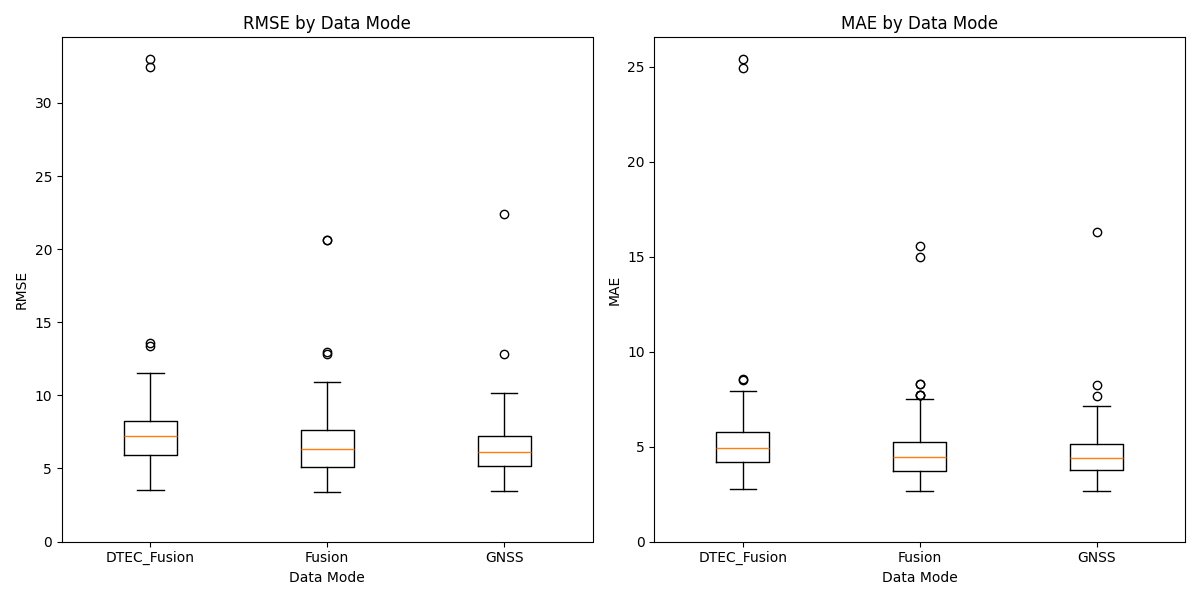
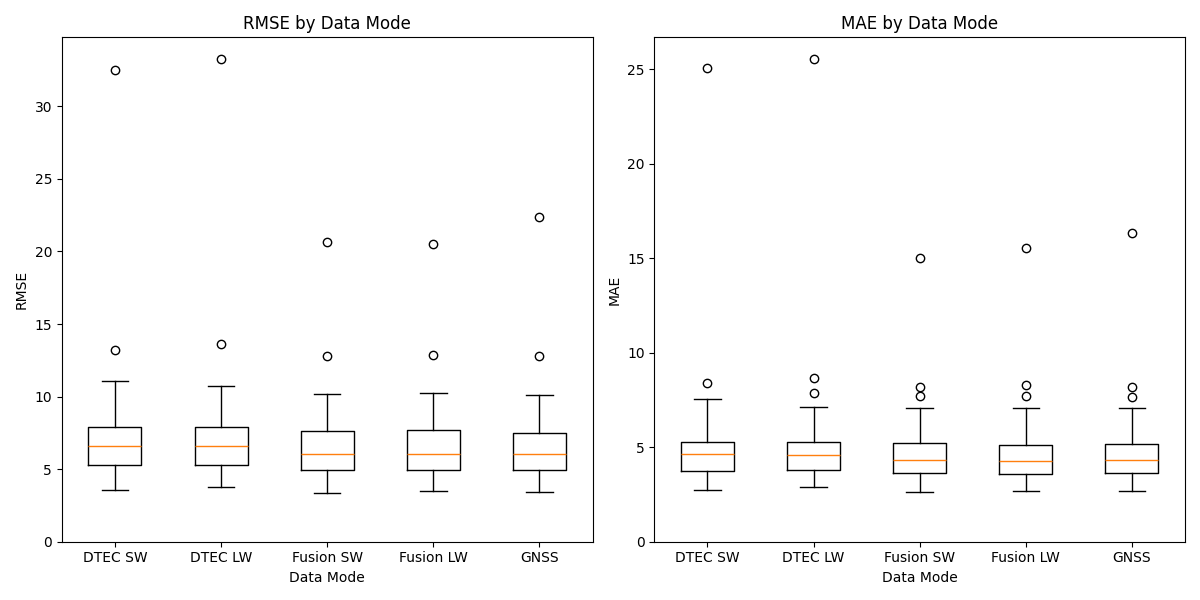
evaluated longterm (2023)

diff --git a/scripts/eval_SA_results.py b/scripts/eval_SA_results.py
@@ -38,75 +38,119 @@ def read_experiment(experiment_folder, experiment_name):
     return df_row
 
 def evaluate(df):
+    print("Number of experiments processed in total: ", len(df))
+    # Define your grouping columns
+    group_columns = ['data_mode', 'training_vlbi_loss_weight', 'training_vlbi_sampling_weight']
+
+    # Expected unique combinations for the groups
+    expected_combinations = set([
+        ('GNSS', 1, 1),
+        ('Fusion', 1000, 1),
+        ('Fusion', 1, 1000),
+        ('DTEC_Fusion', 100, 1),
+        ('DTEC_Fusion', 1, 100)
+    ])
+
+    group_name_mapping = {
+        ('GNSS', 1, 1): 'GNSS',
+        ('Fusion', 1000, 1): 'Fusion LW',
+        ('Fusion', 1, 1000): 'Fusion SW',
+        ('DTEC_Fusion', 100, 1): 'DTEC LW',
+        ('DTEC_Fusion', 1, 100): 'DTEC SW'
+    }
+
+    # Group by 'doy' and check if all expected combinations are present
+    valid_doys = df.groupby('doy').filter(
+        lambda g: set(map(tuple, g[group_columns].values)) == expected_combinations
+    )['doy'].unique()
+
+    # Filter original DataFrame to keep only valid DOYs
+    df = df[df['doy'].isin(valid_doys)]
+    print("Number of experiments where all 5 scenarios were executed successfully: ", len(df))
+
     # Convert RMSE and MAE to numeric
     df["RMSE"] = pd.to_numeric(df["RMSE"], errors='coerce')
     df["MAE"] = pd.to_numeric(df["MAE"], errors='coerce')
 
-    # Plot RMSE and MAE for all entries
+    df_mode = df.groupby(['data_mode', 'training_vlbi_loss_weight', 'training_vlbi_sampling_weight'])
+    
+    # Define consistent bins and range for RMSE and MAE
+    bins_rmse = np.linspace(df['RMSE'].min(), df['RMSE'].max(), 20)
+    bins_mae = np.linspace(df['MAE'].min(), df['MAE'].max(), 20)
+
     plt.figure(figsize=(14, 6))
 
     plt.subplot(1, 2, 1)
-    plt.hist(df["RMSE"])
-    plt.title('Distribution of RMSE')
+    for name, group in df_mode:
+        plt.hist(group['RMSE'], bins=bins_rmse, alpha=0.5, label=group_name_mapping[name], edgecolor='black')
+    plt.title('RMSE by Data Mode')
     plt.xlabel('RMSE')
+    plt.legend()
 
     plt.subplot(1, 2, 2)
-    plt.hist(df["MAE"])
-    plt.title('Distribution of MAE')
+    for name, group in df_mode:
+        plt.hist(group['MAE'], bins=bins_mae, alpha=0.5, label=group_name_mapping[name], edgecolor='black')
+    plt.title('MAE by Data Mode')
     plt.xlabel('MAE')
+    plt.legend()
 
     plt.tight_layout()
-    plt.savefig('scripts/Histograms.png')
+    plt.savefig('scripts/RMSE_MAE_hist_by_data_mode.png', dpi=300)
 
-    # Group by specific arguments like data_mode and plot
-    if 'data_mode' in df.columns:
-        df_mode = df.groupby('data_mode')
-        plt.figure(figsize=(14, 6))
+    # Create subplots with 5 rows and 2 columns (RMSE left, MAE right)
+    fig, axes = plt.subplots(5, 2, figsize=(14, 18), sharex=True, sharey=True)
 
-        # Define consistent bins and range for RMSE
-        rmse_min, rmse_max = df['RMSE'].min(), df['RMSE'].max()
-        mae_min, mae_max = df['MAE'].min(), df['MAE'].max()
+    for i, (name, group) in enumerate(df_mode):
+        mode_label = group_name_mapping.get(name, str(name))
         
-        bins_rmse = np.linspace(rmse_min, rmse_max, 20)  # 30 bins for RMSE
-        bins_mae = np.linspace(mae_min, mae_max, 20)     # 30 bins for MAE
+        # RMSE subplot (left)
+        axes[i, 0].hist(group['RMSE'], bins=bins_rmse, alpha=0.6, label=f'{mode_label} RMSE', color='tab:blue', edgecolor='black')
+        axes[i, 0].set_title(f'{mode_label} RMSE')
+        axes[i, 0].set_ylabel('Frequency')
+        axes[i, 0].legend()
 
-        plt.subplot(1, 2, 1)
-        for name, group in df_mode:
-            plt.hist(group['RMSE'], bins=bins_rmse, alpha=0.5, label=name, edgecolor='black')
-        plt.title('RMSE by Data Mode')
-        plt.xlabel('RMSE')
-        plt.legend()
+        # MAE subplot (right)
+        axes[i, 1].hist(group['MAE'], bins=bins_mae, alpha=0.6, label=f'{mode_label} MAE', color='tab:orange', edgecolor='black')
+        axes[i, 1].set_title(f'{mode_label} MAE')
+        axes[i, 1].legend()
 
-        plt.subplot(1, 2, 2)
-        for name, group in df_mode:
-            plt.hist(group['MAE'], bins=bins_mae, alpha=0.5, label=name, edgecolor='black')
-        plt.title('MAE by Data Mode')
-        plt.xlabel('MAE')
-        plt.legend()
+    # Add a common x-axis label for both columns
+    axes[-1, 0].set_xlabel('RMSE Value')
+    axes[-1, 1].set_xlabel('MAE Value')
 
-        plt.tight_layout()
-        plt.savefig('scripts/RMSE_MAE_hist_by_data_mode.png')
+    plt.tight_layout()
+    plt.savefig('scripts/RMSE_MAE_hist_subplots.png', dpi=300)
 
-        plt.figure(figsize=(12,6))
+    plt.figure(figsize=(12, 6))
 
-        plt.subplot(1, 2, 1)
-        data = [group['RMSE'].values for name, group in df_mode]
-        plt.boxplot(data, labels=df_mode.groups.keys())
-        plt.ylim(bottom=0)
-        plt.title('RMSE by Data Mode')
-        plt.xlabel('Data Mode')
-        plt.ylabel('RMSE')
+    # First subplot (RMSE)
+    ax1 = plt.subplot(1, 2, 1)
+    data_rmse = [group['RMSE'].values for name, group in df_mode]
+    plt.boxplot(data_rmse, tick_labels=[group_name_mapping[name] for name in df_mode.groups.keys()])
+    ax1.set_ylim(bottom=0)
+    plt.title('RMSE by Data Mode')
+    plt.xlabel('Data Mode')
+    plt.ylabel('RMSE')
 
-        plt.subplot(1, 2, 2)
-        data = [group['MAE'].values for name, group in df_mode]
-        plt.boxplot(data, labels=df_mode.groups.keys())
-        plt.ylim(bottom=0)
-        plt.title('MAE by Data Mode')
-        plt.xlabel('Data Mode')
-        plt.ylabel('MAE')
+    # Second subplot (MAE)
+    ax2 = plt.subplot(1, 2, 2)
+    data_mae = [group['MAE'].values for name, group in df_mode]
+    plt.boxplot(data_mae, tick_labels=[group_name_mapping[name] for name in df_mode.groups.keys()])
+    ax2.set_ylim(bottom=0) 
+    plt.title('MAE by Data Mode')
+    plt.xlabel('Data Mode')
+    plt.ylabel('MAE')
 
-        plt.tight_layout()
-        plt.savefig('scripts/RMSE_MAE_boxplots_by_data_mode.png')
+    # Save the plot with full range
+    plt.tight_layout()
+    plt.savefig('scripts/RMSE_MAE_boxplots_by_data_mode.png', dpi=300)
+
+    # Adjust limits for cropped version
+    ax1.set_ylim(3, 12) 
+    ax2.set_ylim(2, 8) 
+
+    plt.tight_layout()
+    plt.savefig('scripts/RMSE_MAE_boxplots_by_data_mode_nooutliers.png', dpi=300)
 
 def main():
     """
